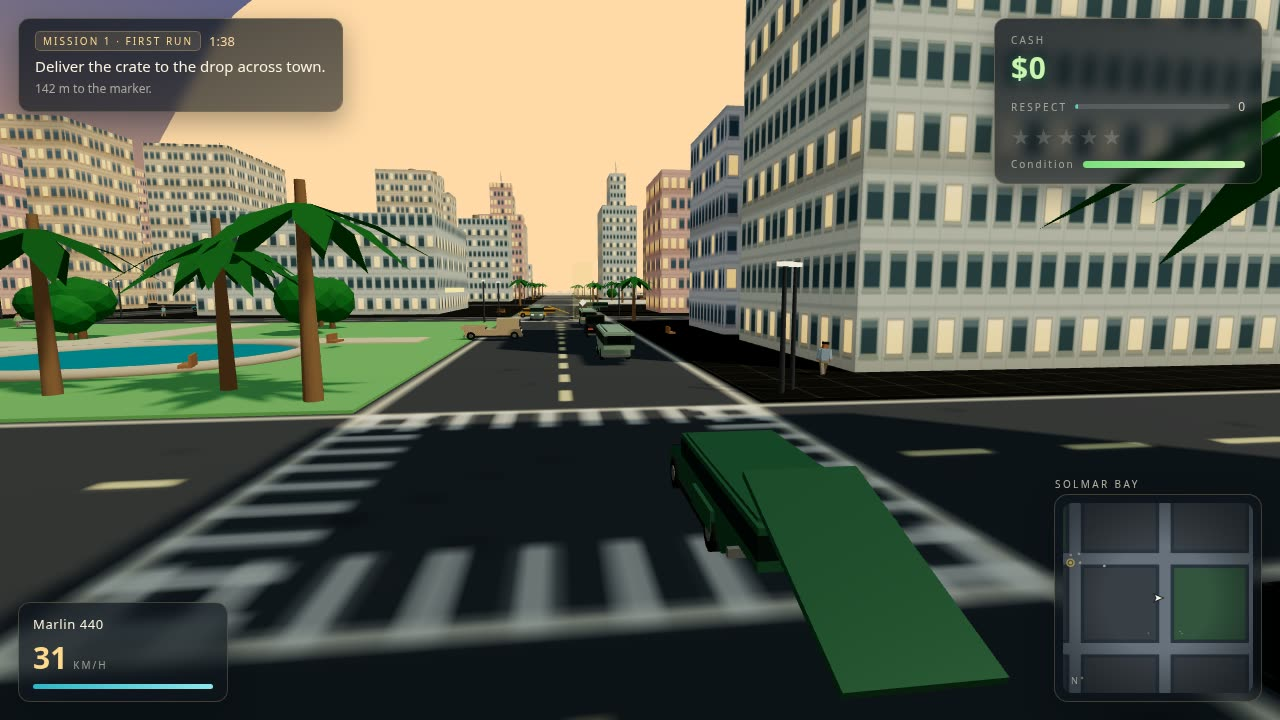
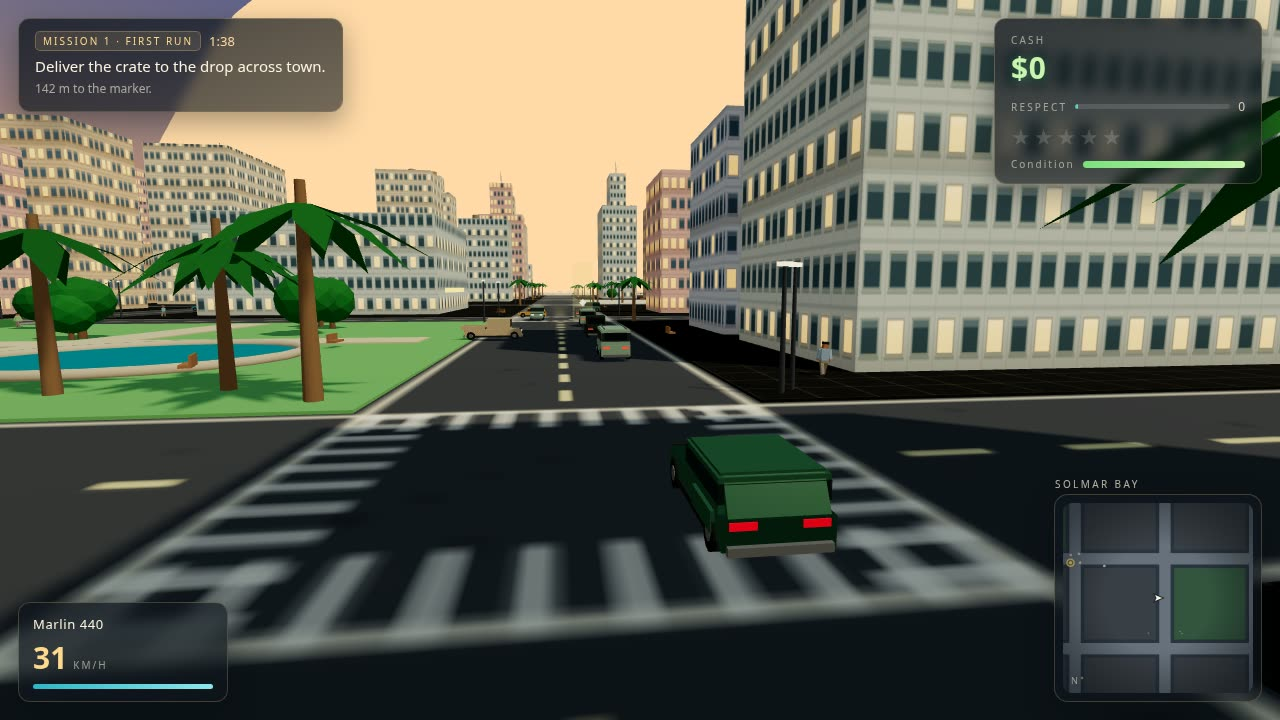
Neon Harbor round 7: fastback slope fix (cabin L/2 base, per-model slope), screenshots re-rendered, main.ts + save.js revision patches

diff --git a/game/src/vehicles.js b/game/src/vehicles.js
@@ -265,11 +265,13 @@ function buildCar(opts, rng, spawnIndex) {
 
   if (model.style === 'pickup') {
     // Cab block plus an open bed with rails.
-    const cab = new THREE.Mesh(new THREE.BoxGeometry(W * 0.9, cabinHeight, L * 0.4), bodyMat);
-    cab.position.set(0, 0.28 + H * 0.42 + cabinHeight / 2 - 0.1, (L * cabinFront + L * cabinBack) / 2 + L * 0.06);
+    const cabLen = (L / 2) * (cabinFront - cabinBack);
+    const cabZ = (L / 2) * (cabinFront + cabinBack) / 2;
+    const cab = new THREE.Mesh(new THREE.BoxGeometry(W * 0.9, cabinHeight, cabLen), bodyMat);
+    cab.position.set(0, 0.28 + H * 0.42 + cabinHeight / 2 - 0.1, cabZ);
     cab.castShadow = true;
     group.add(cab);
-    const glass = new THREE.Mesh(new THREE.BoxGeometry(W * 0.82, cabinHeight * 0.62, L * 0.4 + 0.02), glassMat);
+    const glass = new THREE.Mesh(new THREE.BoxGeometry(W * 0.82, cabinHeight * 0.62, cabLen + 0.02), glassMat);
     glass.position.copy(cab.position).setY(cab.position.y + cabinHeight * 0.08);
     group.add(glass);
 
@@ -295,11 +297,13 @@ function buildCar(opts, rng, spawnIndex) {
     group.add(tub);
     const cageMat = new THREE.MeshStandardMaterial({ color: 0x3a3f46, roughness: 0.5, metalness: 0.7 });
     const cageGeo = new THREE.CylinderGeometry(0.06, 0.06, cabinHeight, 5);
+    const cageFrontZ = (L / 2) * cabinFront * 0.7;
+    const cageBackZ = (L / 2) * cabinBack * 0.7;
     const cagePositions = [
-      [W * 0.4, cabinFront * L * 0.7],
-      [-W * 0.4, cabinFront * L * 0.7],
-      [W * 0.4, cabinBack * L * 0.7],
-      [-W * 0.4, cabinBack * L * 0.7],
+      [W * 0.4, cageFrontZ],
+      [-W * 0.4, cageFrontZ],
+      [W * 0.4, cageBackZ],
+      [-W * 0.4, cageBackZ],
     ];
     for (const [cx, cz] of cagePositions) {
       const post = new THREE.Mesh(cageGeo, cageMat);
@@ -307,13 +311,13 @@ function buildCar(opts, rng, spawnIndex) {
       group.add(post);
     }
     const roofBar = new THREE.Mesh(new THREE.BoxGeometry(W * 0.84, 0.1, 0.1), cageMat);
-    roofBar.position.set(0, 0.28 + H * 0.5 + cabinHeight, 0);
+    roofBar.position.set(0, 0.28 + H * 0.5 + cabinHeight, (cageFrontZ + cageBackZ) / 2);
     group.add(roofBar);
   } else {
     // Closed cabin: a trapezoid-ish block with a glass band. The taper and the
     // roofline change per style so a coupe does not read as a wagon.
-    const cabinLen = L * (cabinFront - cabinBack);
-    const cabinZ = (L * cabinFront + L * cabinBack) / 2;
+    const cabinLen = (L / 2) * (cabinFront - cabinBack);
+    const cabinZ = (L / 2) * (cabinFront + cabinBack) / 2;
     const cabin = new THREE.Mesh(new THREE.BoxGeometry(W, cabinHeight, cabinLen), bodyMat);
     cabin.position.set(0, 0.28 + H * 0.42 + cabinHeight / 2, cabinZ);
     cabin.castShadow = true;
@@ -331,9 +335,16 @@ function buildCar(opts, rng, spawnIndex) {
     // Style-specific silhouette work.
     if (model.style === 'coupe' || model.style === 'muscle') {
       // Fastback: a sloped rear deck closing the roof to the tail.
-      const slope = new THREE.Mesh(new THREE.BoxGeometry(W * 0.9, 0.1, cabinLen * 0.7), bodyMat);
-      slope.position.set(0, cabin.position.y + cabinHeight * 0.22, cabinZ - cabinLen * 0.62);
-      slope.rotation.x = -0.34;
+      const deckY = 0.28 + H * 0.42;
+      const roofY = deckY + cabinHeight;
+      const roofRearZ = cabinZ - cabinLen * 0.92 / 2;
+      const tailZ = -L * 0.48;
+      const run = roofRearZ - tailZ;
+      const rise = roofY - deckY;
+      const slopeLength = Math.hypot(run, rise);
+      const slope = new THREE.Mesh(new THREE.BoxGeometry(W * 0.9, 0.1, slopeLength), bodyMat);
+      slope.position.set(0, (roofY + deckY) / 2, (roofRearZ + tailZ) / 2);
+      slope.rotation.x = -Math.atan2(rise, run);
       slope.castShadow = true;
       group.add(slope);
     }

diff --git a/main.ts b/main.ts
@@ -12,7 +12,7 @@
 // Outside the grader's container, MAKEFUN_OUTPUT_DIR stands in for /output:
 //   mkdir -p out && MAKEFUN_OUTPUT_DIR=out node main.ts
 
-import { cpSync, existsSync, mkdirSync, writeFileSync } from 'node:fs';
+import { cpSync, existsSync, mkdirSync, readdirSync, statSync, writeFileSync } from 'node:fs';
 import { join } from 'node:path';
 import { fileURLToPath } from 'node:url';
 import { buildDossier } from './vendor/makefun-game.ts';
@@ -26,9 +26,20 @@ const here = fileURLToPath(new URL('.', import.meta.url));
 const out = process.env.MAKEFUN_OUTPUT_DIR ?? '/output';
 console.log(`${GAME_TITLE}: Solmar Bay open-world entry — hand-in build`);
 
+if (!existsSync(join(here, 'screenshots'))) throw new Error('screenshots/ is missing beside main.ts: this entry cannot be handed in without its screenshots');
+const screenshotFiles = readdirSync(join(here, 'screenshots'));
+if (screenshotFiles.length < 1 || screenshotFiles.length > 4) {
+  throw new Error(`screenshots/ must contain 1-4 files; found ${screenshotFiles.length}`);
+}
+for (const file of screenshotFiles) {
+  const path = join(here, 'screenshots', file);
+  const stat = statSync(path);
+  if (!stat.isFile()) throw new Error(`screenshots/${file} is not a file`);
+  if (stat.size > 262144) throw new Error(`screenshots/${file} is ${stat.size} bytes; maximum is 262144`);
+}
+
 mkdirSync(out, { recursive: true });
 cpSync(join(here, 'game'), join(out, 'game'), { recursive: true });
-if (!existsSync(join(here, 'screenshots'))) throw new Error('screenshots/ is missing beside main.ts: this entry cannot be handed in without its screenshots');
 mkdirSync(join(out, 'screenshots'), { recursive: true });
 cpSync(join(here, 'screenshots'), join(out, 'screenshots'), { recursive: true });
 

diff --git a/game/src/save.js b/game/src/save.js
@@ -15,8 +15,8 @@
 // JSON blob or a save whose numbers are not finite is treated as "no save"
 // rather than crashing the boot.
 
-import { SAVE_KEY, GAME_TITLE } from './config.js';
-import { clamp } from './util.js';
+import { SAVE_KEY, GAME_TITLE, CITY } from './config.js';
+import { clamp, wrapAngle } from './util.js';
 
 export const SAVE_VERSION = 1;
 
@@ -113,9 +113,9 @@ export function createSave(ctx) {
       sideDeliveries: Math.max(0, Math.round(Number(parsed.sideDeliveries) || 0)),
       wanted: clamp(Math.round(Number(parsed.wanted) || 0), 0, 5),
       player: {
-        x: Number.isFinite(player?.x) ? player.x : null,
-        z: Number.isFinite(player?.z) ? player.z : null,
-        heading: Number.isFinite(player?.heading) ? player.heading : 0,
+        x: Number.isFinite(player?.x) ? clamp(player.x, -CITY.halfX - 140, CITY.halfX + 140) : null,
+        z: Number.isFinite(player?.z) ? clamp(player.z, -CITY.halfZ - 140, CITY.halfZ + 140) : null,
+        heading: Number.isFinite(player?.heading) ? wrapAngle(player.heading) : 0,
         inCar: Boolean(player?.inCar),
       },
     };
